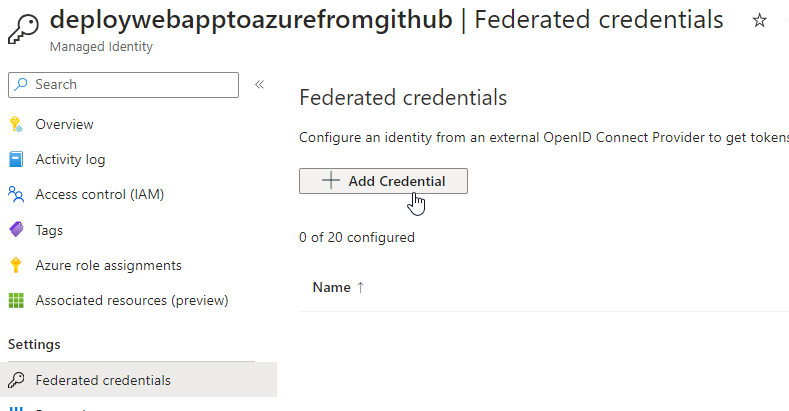
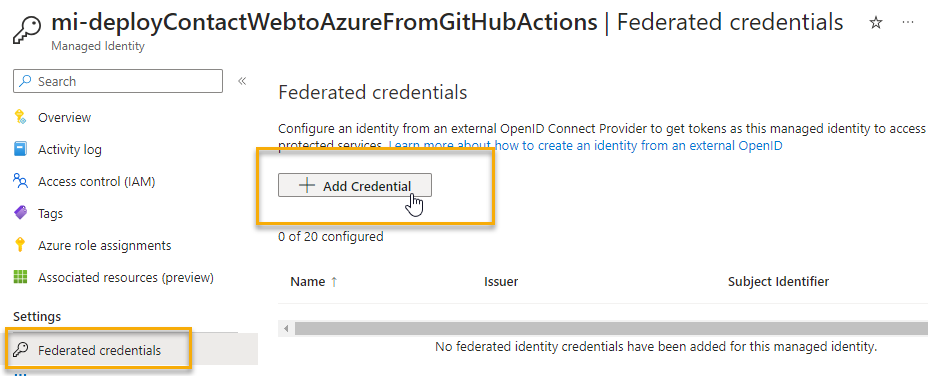
update for mi

diff --git a/Part2-BuildingTheInfrastructure.md b/Part2-BuildingTheInfrastructure.md
@@ -49,9 +49,11 @@ The UMI can be created in any resource group. For simplicity, you can use the sa
 
 >**Note:** you could approach the deployments in multiple ways (i.e. App Registration - the old way, or via the cli to create resources) but the easiest, most secure, and preferred way with all the credentials and permissions in one place is to use a user-managed identity created in the portal, wired directly to your GitHub repo.  
 
-1. Log in to the azure portal, navigate to Managed Identities, and create a new user-managed identity.  Give it a name that makes sense for the app service you are deploying to, and make sure it is in the same subscription as the app service you are deploying to.
+1. Log in to the azure portal, navigate to Managed Identities, and create a new user-managed identity.  Give it a name that makes sense for the app service you are deploying to, and make sure it is in the same subscription as the app service you are deploying to. 
 
-    - Name: `mi-deployToAzureFromGitHubActions` (or whatever makes sense for your app service)
+>**NOTE:** The names and locations of these sample resources are placeholders.  You should use your own names and locations, and you should be doing something unique for the workshop.  For example, I'm creating `mi-deployContactWebtoAzureFromGitHubActions` in the `deploymentcommon` resource group in my own subscription and deployment region.  You should replace these important values with your own values to map to this workshop.
+
+    - Name: `mi-deployContactWebtoAzureFromGitHubActions` [or some name that makes sense to you]
     - Resource Group: `your-resource-group`
     - Subscription: `your-subscription`
     - Region: `your-region`
@@ -63,6 +65,10 @@ The UMI can be created in any resource group. For simplicity, you can use the sa
     ![Validate User Managed Identity](images/Part2-common/umi/image0002-validateumicreated.png)
 
     >**Important:** Make sure to make note of the `Client ID` and `Subscription ID` of the identity, as this will be used later. This `Client ID` and `Subscription ID` in combination with the `Tenant ID` will be used to validate the federated credentials, log in to azure, and authorize from GitHub Actions secrets.
+
+    If you need to find your tenant ID, you can get it from the `subscriptions` blade by navigating to `subscriptions` and selecting subscription, then getting the `Parent Management Group` value:
+
+    ![Get Tenant ID](images/Part2-common/umi/image0002.5-gettenantid.png)
 
 ### Step 2: Create Federated Credentials
 
@@ -82,31 +88,34 @@ To allow GitHub Actions to execute against this service principal, you will need
 
     For the Connect your GitHub account section, you will need to authorize your Azure Subscription and GitHub to talk to one another.
 
-    Once you have done this, enter the organization name where your code for the contact web application is located.
+    First, you will need your organization name and your repository name.  Please note that in the images below the values for the repository name and organization are placeholders.  You will need to replace them with your own values based on your account information and whatever you named the repo where you will be coding your IaC files. The repo I used in these images for creating the credential is `` and my organization is `blgorman`.
 
-    >**Note:** The organization is typically your github user account name (in the URL of your github account, the part right after `https://www.github.com/`).  For example, my repo is here: `https://github.com/blgorman/InfrastructureAsCodeACWWork`, so my organization name is `blgorman` and the repo name is `InfrastructureAsCodeACWWork`. 
+    >**Note:** The organization is typically your github user account name (in the URL of your github account, the part right after `https://www.github.com/`). The repo name follows that user name. 
 
-    Then enter the repository name where your code for the contact web application is located.  My repository is `InfrastructureAsCodeACWWork`.
+    Then enter the repository name where your code for the contact web application is located.  My repository is `InfrastructureAsCodeACWWork`.  You need to put the **EXACT** name of your repository here or it will not work.
 
     Select entity type: `Branch`  
 
-    Then enter the branch name for deployment which is likely `main` or possibly `master`. My branch is `main`
+    Enter the branch name: `main`
 
-    Then name the credential:
+    Make sure your subject identifier has the exact path:
 
-    ```bash
+    ```text
+    repo:yourorg/yourrepo/heads/main
+    ```  
+
+    >**Important**: `yourorg` should be your github username and `yourrepo` should be the name of the repository where you are storing your IaC files.  The `main` branch is the default branch for the repository.  This path should be generated for you.
+
+    !["Federated Credential Scenario"](images/Part2-common/umi/image0004-federatedcredentialscenario.png)
+
+    Name the credential something that makes sense to you
+
+    ```text
     iac-workshop-contactweb-dev-github-main
     ```  
 
-    With description:
-    
-    ```bash
-    GitHub Actions deploying Azure Resources
-    ```
+    !["Name and add credential"](images/Part2-common/umi/image0005.5-nameandaddcredential.png)  
 
-    Then select `Add`.
-    
-    !["Adding a credential"](images/Part2-common/image0005-branchdeploycredentials.png)  
             
 1. Once the add is completed, you will see the credential in the list of federated credentials.
 
@@ -114,20 +123,23 @@ To allow GitHub Actions to execute against this service principal, you will need
 
 1. Additional credentials
 
-    I like to add an environment credential that allows me to run the workflow from any branch.  Currently the only branch that can deploy is the `main` branch of my repo.  If you want to allow other branches to deploy, you will want a second federated credential that uses the `Environments` option.  This is also nice because it can ensure that only dev resources are deployed in the dev subscription.
+    You don't need to do this today, but if you want an additional trigger, you could add a second federated credential for a different branch.  
 
-    !["Dev environment federated credentials"](images/Part2-common/image0007-devEnvironmentFederatedCredential.png)  
+    I like to use an environment credential that allows me to run the workflow from any branch.  Currently the only branch that can deploy is the `main` branch of my repo based on the credential above.  If you want to allow other branches to deploy, or if you want to limit the environment where code can be deployed by a credential (very useful), you will want a second federated credential that uses the `Environments` option (in fact, you may choose to only use environment in the real world).  
+    
+    Using environments is very important because it can ensure that only dev resources are deployed in the dev subscription, and allows you to configure environments in GitHub Actions to deploy to different subscriptions based on the environment. 
 
-    In the end, I have two. You need at least one (branch and/or environment) to deploy from GitHub Actions.
+    !["Dev environment federated credentials"](images/Part2-common/umi/image0007-environmentcredential.png)    
 
-    !["Both federated credentials can coexist"](images/Part2-common/image0008-bothcredentialscreated.png)  
+    In the end, I have two credentials. You need at least one (branch and/or environment) to deploy from GitHub Actions.  If you only use the environment, then your deployment action will need to name the environment in the workflow file.  If you use the branch, then you don't need to do anything special on the deployment action, it just needs to run from that branch.
 
+    !["Both federated credentials can coexist"](images/Part2-common/umi/image0008-bothcredentials.png)  
 
-## Task 2 - Give the principal permissions to deploy
+## Task 2 - Give the managed identity permissions to deploy
 
-In order for the principal to deploy to Azure, it needs to have the correct permissions.  This is done via the `Access Control (IAM)` blade in the portal.
+In order for the identity to deploy to Azure, it needs to have the correct permissions.  This is done via the `Access Control (IAM)` blade in the portal.
 
-1. Navigate to the `Access Control (IAM)` blade for the subscription.
+1. Navigate to the subscription, then select the `Access Control (IAM)` blade.
 
     If you are going to deploy a resource group in the subscription level, then you will need to be a contributor on the subscription.  This is done via the `Access Control (IAM)` blade in the portal for the subscription.
 
@@ -149,22 +161,19 @@ In order for the principal to deploy to Azure, it needs to have the correct perm
 
     Select `Members` -> leave the default of `User, group, or service principal` and hit the `+ Select members` button.
 
-    Find the service principal you created in the previous task and select it.  Then hit `Select`.
+    Find the managed identity you created in the previous task and select it.  Then hit `Select`.
 
-    !["Members"](images/Part2-common/image0012-selectingtheprincipal.png)  
+    !["Members"](images/Part2-common/image0012-selectingthemanagedidentity.png)  
 
 1. Hit `Review + assign`
 
     Validate that you have the correct principal and role and then hit `Review + assign`.
 
-    !["Review and assign"](images/Part2-common/image0013-validateroleassignment.png)  
-
-    Hit `Assign` to complete the assignment.
+1. Ensure the role is assigned
 
     Validate the role is shown in the `Role assignments` tab.
 
     !["Role Exists"](images/Part2-common/image0014-roleexists.png)  
-
 
 ## Task 3 - Set the GitHub Secrets
 
